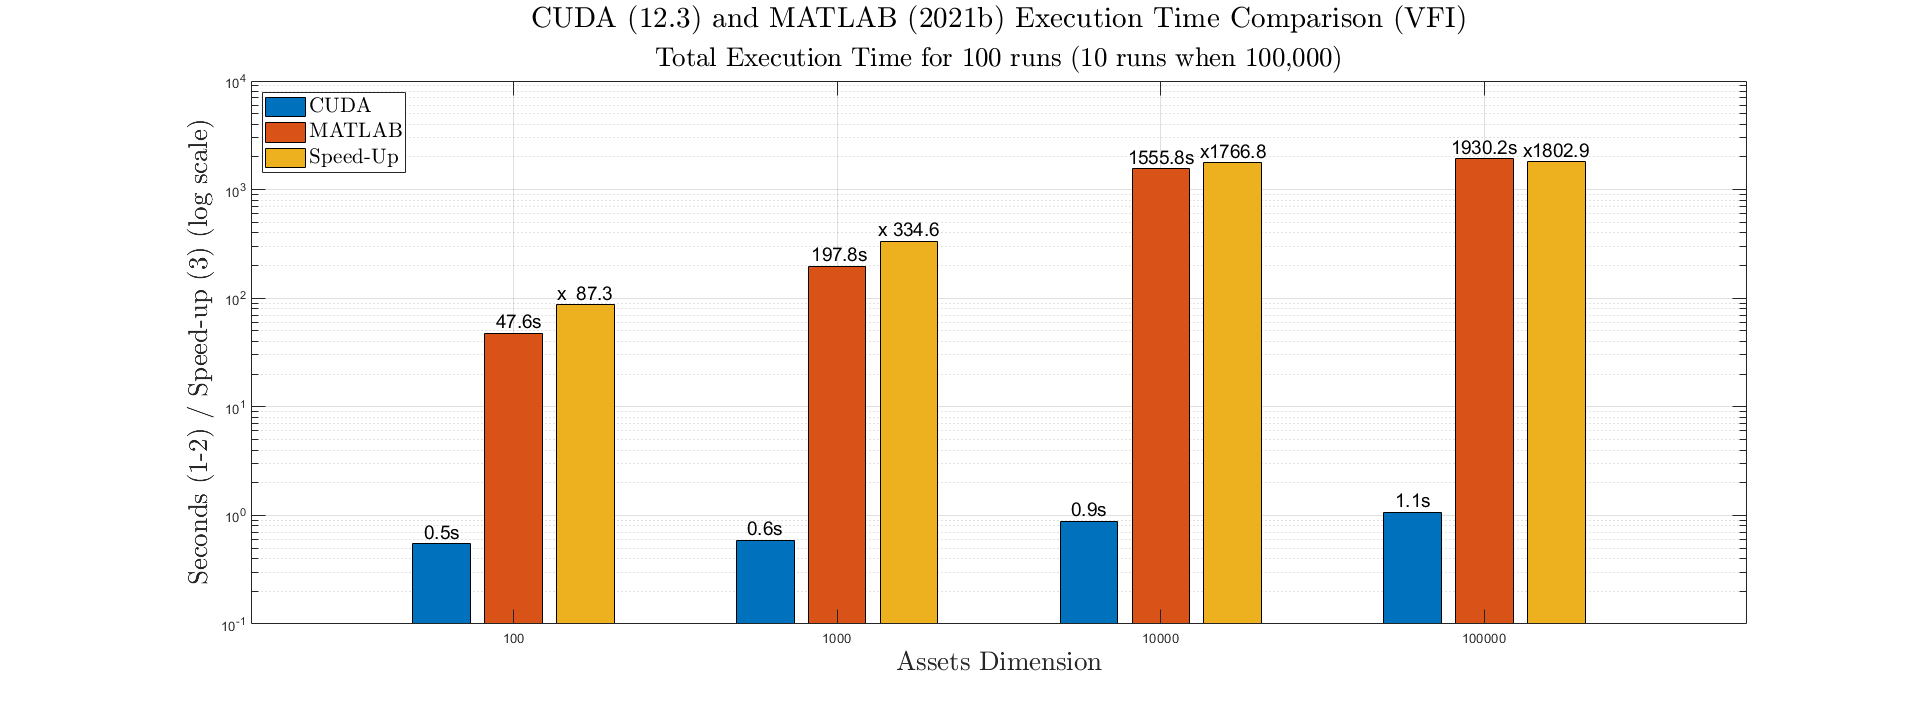
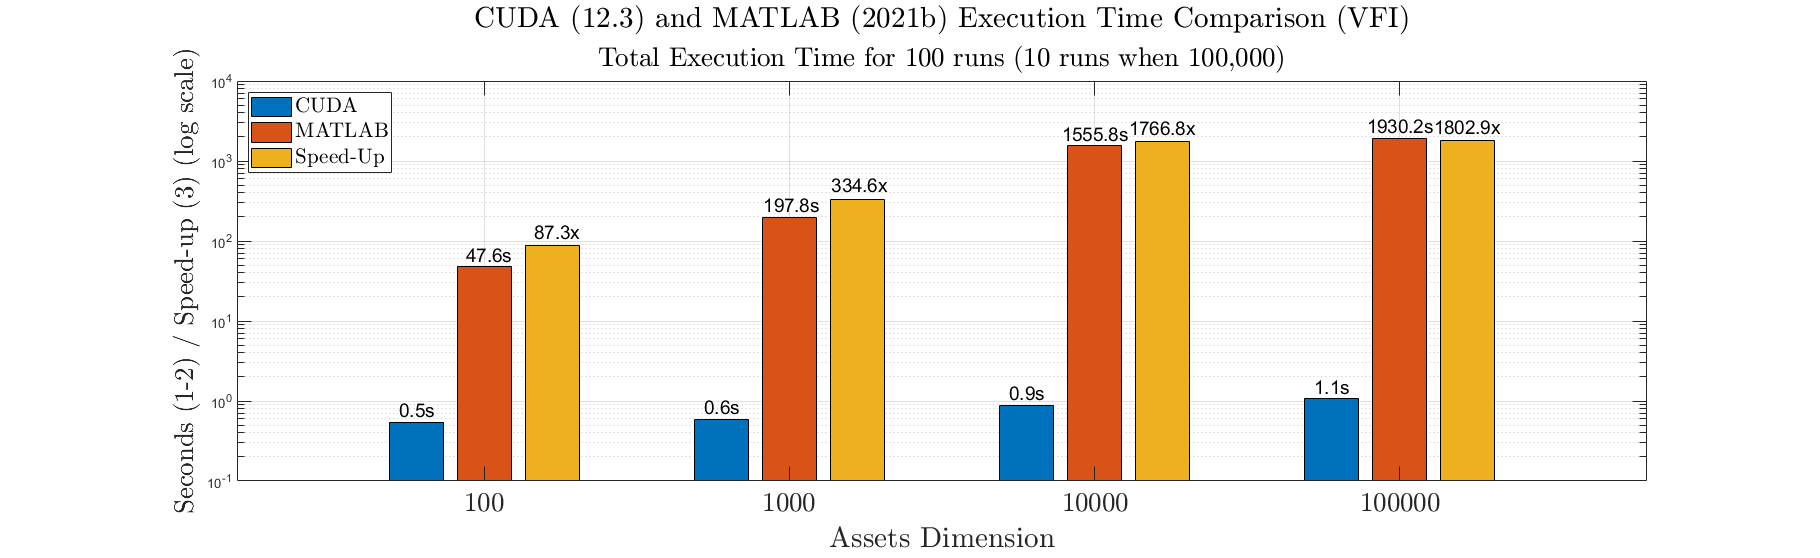
update graph

diff --git a/timings_plot.m b/timings_plot.m
@@ -1,0 +1,45 @@
+% Timings plot
+
+clear; close all; clc;
+
+assets_dimension = [100, 1000, 10000, 100000];
+cuda_vfi_seconds = [0.545923 0.591243 0.880553 1.07062];
+matlab_vfi_seconds = [47.63753 197.815513 1555.780887 1930.230246];
+
+speed_ups = [matlab_vfi_seconds ./ cuda_vfi_seconds];
+
+% Convert assets_dimension to categorical
+assets_category = categorical({'100', '1000', '10000', '100000'}, ...
+    'Ordinal', true);
+
+% Create a bar plot with logarithmic y-axis
+figure;
+b = bar(assets_category, [cuda_vfi_seconds; matlab_vfi_seconds; speed_ups]', 'grouped');
+set(gca, 'YScale', 'log');  % Set logarithmic scale on the y-axis
+
+% Labeling and title
+xlabel('Assets Dimension', 'Interpreter', 'latex', 'FontSize', 20);
+
+ax = gca;
+ax.XAxis.TickLabelInterpreter = 'latex';
+ax.XAxis.FontSize = 20;
+
+ylabel('Seconds (1-2) / Speed-up (3) (log scale)', 'Interpreter', 'latex', 'FontSize', 20);
+title('CUDA (12.3) and MATLAB (2021b) Execution Time Comparison (VFI)', 'Interpreter', 'latex', 'FontSize', 22);
+subtitle('Total Execution Time for 100 runs (10 runs when 100,000)', 'Interpreter', 'latex', 'FontSize', 20)
+
+% Show legend
+legend('CUDA', 'MATLAB', 'Speed-Up', 'Interpreter', 'latex', 'Location', 'northwest', 'FontSize', 16);
+
+grid on;
+
+% Display the values on top of each bar
+for i = 1:numel(b)
+    yval = b(i).YData;
+    xval = b(i).XEndPoints;
+    if i <= 2
+        text(xval, yval, strcat(num2str(yval', '%.1f'), 's'), 'VerticalAlignment', 'bottom', 'HorizontalAlignment', 'center', 'FontSize', 14);
+    else
+        text(xval, yval + 0.05*yval, strcat(num2str(yval', '%.1f'), 'x'), 'VerticalAlignment', 'bottom', 'HorizontalAlignment', 'center', 'FontSize', 14);
+    end
+end
